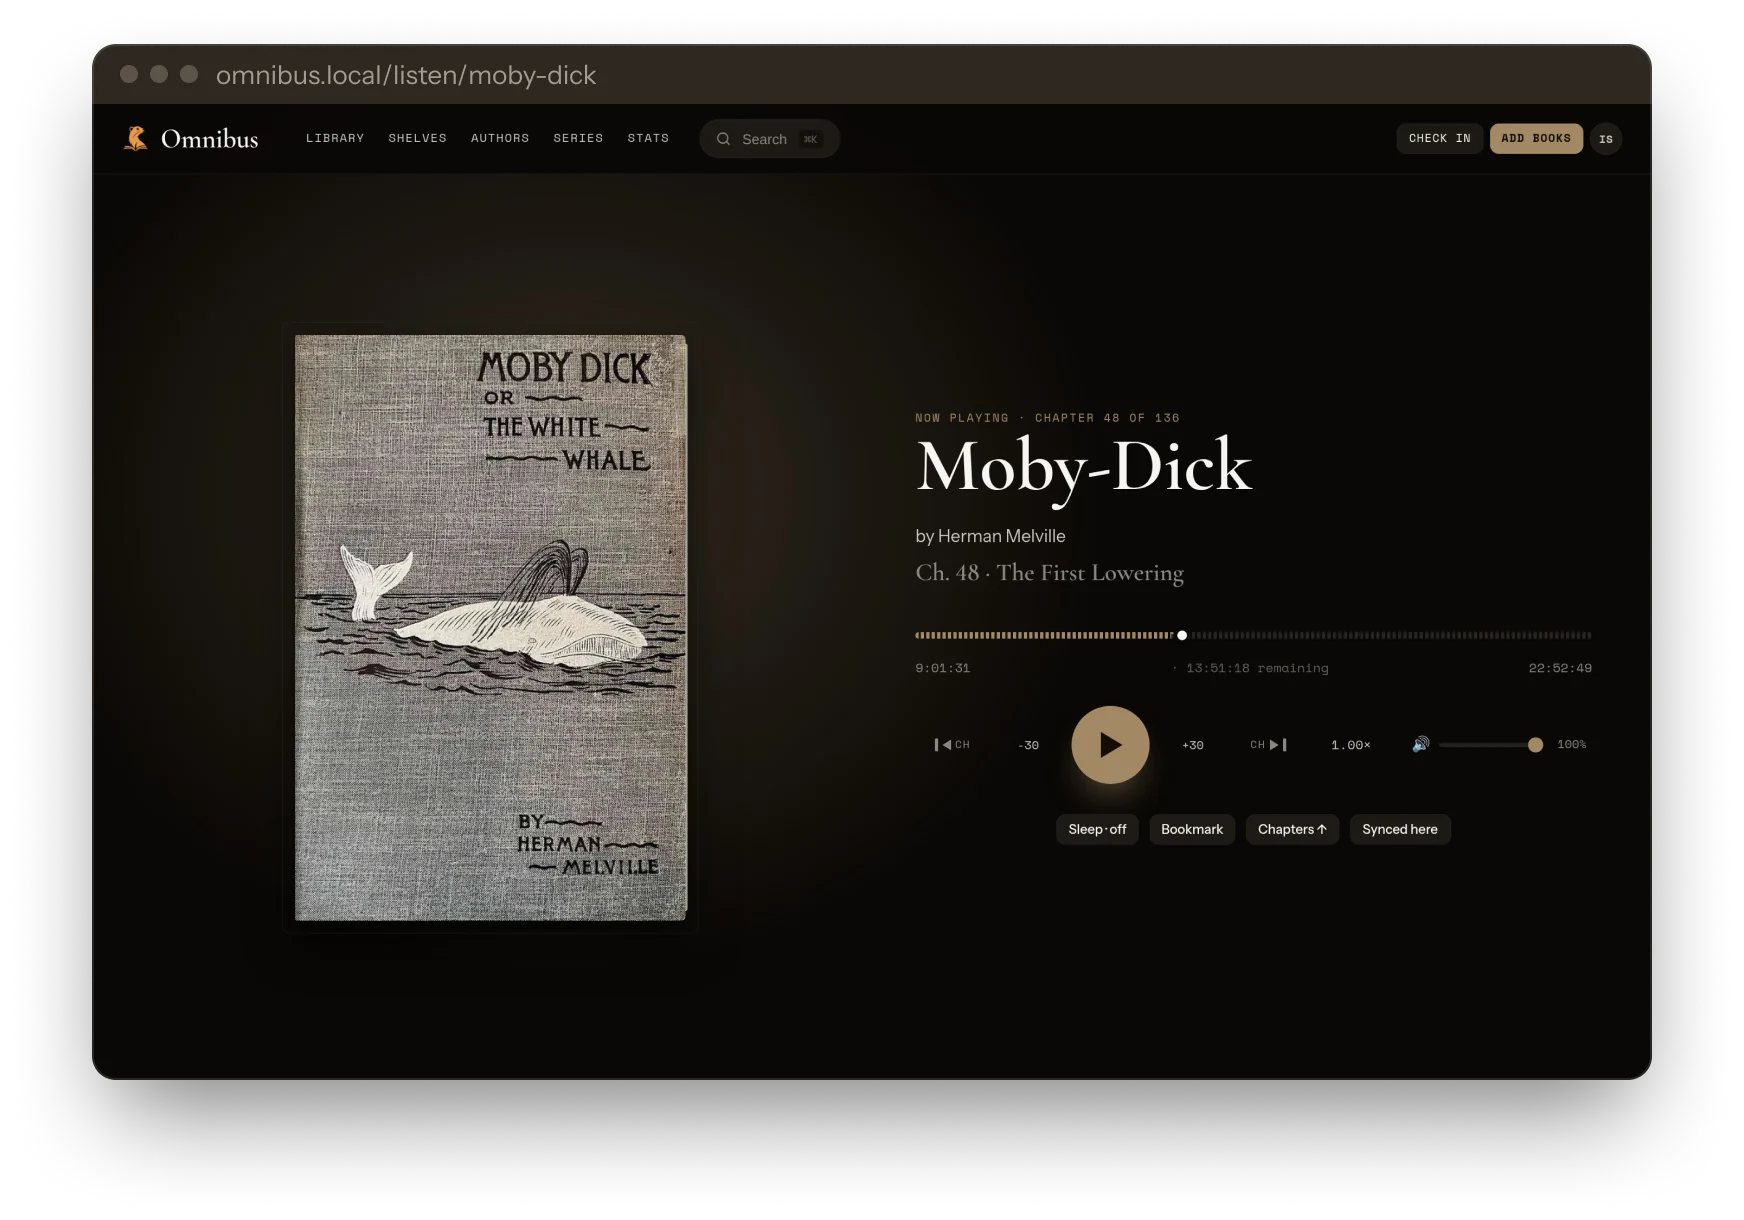
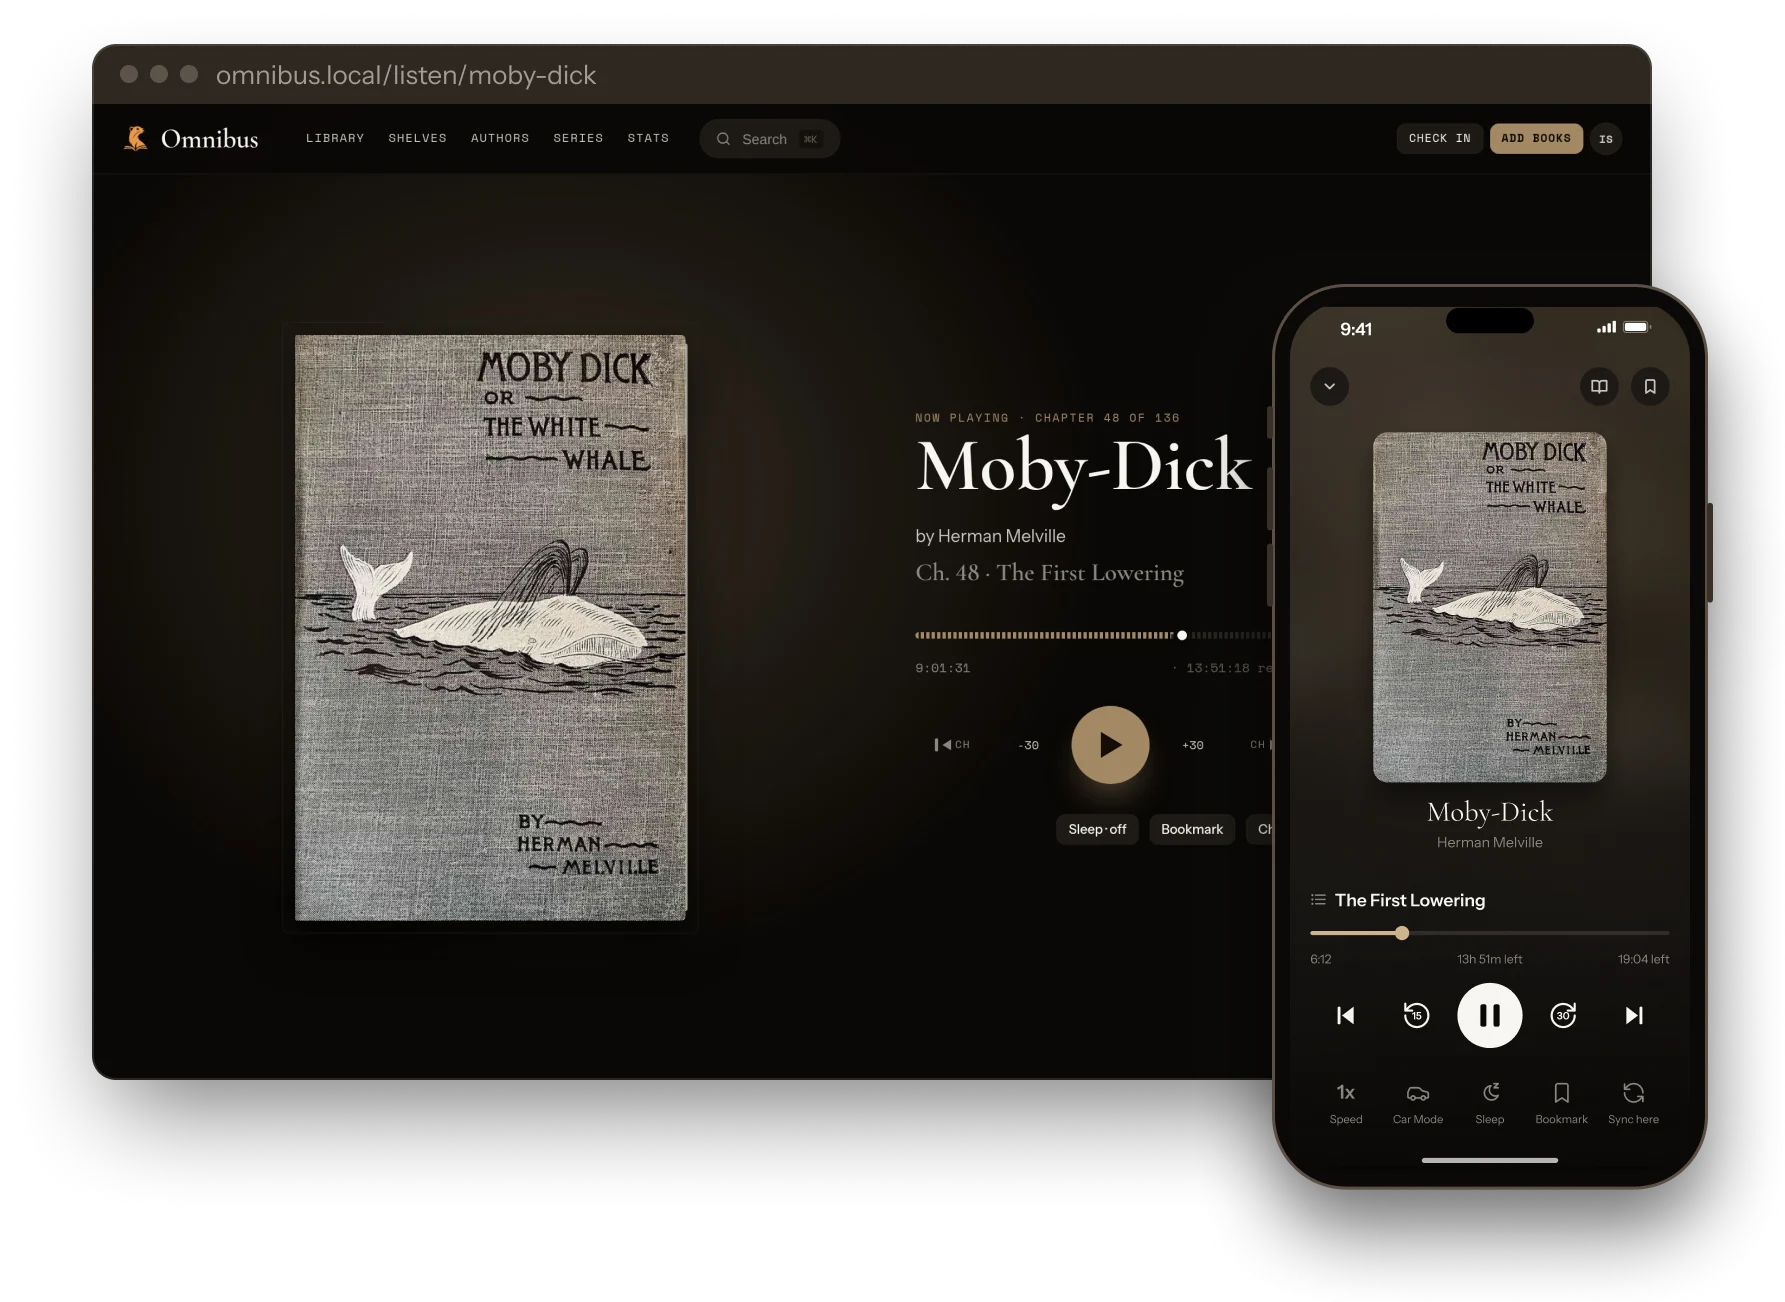
feat: show the iPhone player beside the web player in stop 4
The iPhone screen is drawn from omnibus-ios PlayerView: its layout, the atrium palette toned by the cover's accent, and the scratch library's real chapter and position. The React listen page still breaks at phone width, so it can't be captured there.

Refs: #2979

Changed region(s): [[0.031, 0.0311, 0.9908, 0.9656], [0.1548, 0.2492, 0.4025, 0.7787], [0.6812, 0.6541, 0.867, 0.8098]]

diff --git a/site/src/index.html b/site/src/index.html
@@ -94,7 +94,7 @@
   </div>
 </section>
 
-<section class="stop" aria-labelledby="s4-h" style="--fh:857;--cy:429;--tx:960;--hw:420;--bw:400">
+<section class="stop" aria-labelledby="s4-h" style="--fh:857;--cy:456;--tx:960;--hw:420;--bw:400">
   <div class="canvas">
     <div class="copy">
       <h2 id="s4-h">Hear the next chapter.</h2>
@@ -102,9 +102,9 @@
       <p>You can also play the audiobook while you read along in the ebook.</p>
       <p>Change the playback speed, set a sleep timer, browse chapters and bookmarks, and switch to Car Mode in the iPhone app to scrub through a chapter on your commute.</p>
     </div>
-    <picture class="stage" style="--x:54;--y:148;--w:872;--mx:-16;--mw:422">
-      <source media="(min-width: 1200px)" srcset="shots/d-stop4.webp" width="1744" height="1220">
-      <img src="shots/m-stop4.webp" width="844" height="586" loading="lazy" alt="The audiobook player at chapter 48, The First Lowering.">
+    <picture class="stage" style="--x:54;--y:148;--w:892.5;--mx:-16;--mw:422">
+      <source media="(min-width: 1200px)" srcset="shots/d-stop4.webp" width="1785" height="1302">
+      <img src="shots/m-stop4.webp" width="844" height="1032" loading="lazy" alt="The audiobook player at chapter 48, The First Lowering, in the browser and in the iPhone app.">
     </picture>
   </div>
 </section>
